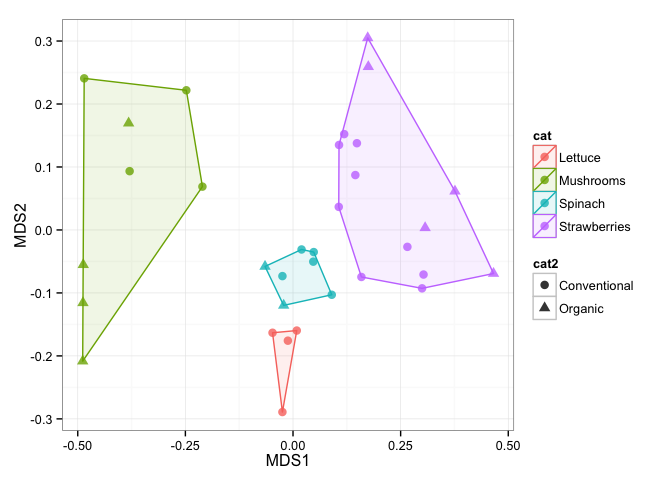
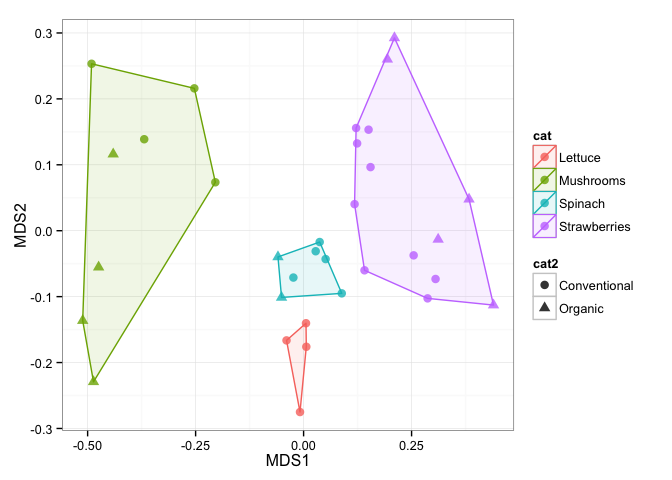
updates

diff --git a/mctoolsr_examples.md b/mctoolsr_examples.md
@@ -25,9 +25,8 @@ source('~/Software/mctoolsr/R/routine_analysis_functions.R')
 
 ### Examples
 
-Note that the following examples use an example dataset taken from a study examining the bacterial communities associated with fruits and vegetables ([Leff et al. 2013][ref1]). You can find this dataset in the mctoolsr/examples directory.
+Note that the following examples use an example dataset taken from a study examining the bacterial communities associated with fruits and vegetables ([Leff et al. 2013][ref1]). You can find this dataset in the mctoolsr/examples directory.    
 
-\  
 
 #### Loading OTU tables and metadata
 
@@ -56,9 +55,8 @@ The loaded data will consist of three parts:
 2. The metadata: "map_loaded"
 3. The taxonomic classifiers (if provided in the biom file): "taxonomy_loaded"
 
-Any of these components can be quickly accessed using the '$' sign notation as shown in the next example.
+Any of these components can be quickly accessed using the '$' sign notation as shown in the next example.  
 
-\  
 
 #### Returning numbers of sequences per sample
 
@@ -80,7 +78,6 @@ sort(colSums(input$data_loaded))
 ##   2982   3291   3390
 ```
 
-\  
 
 #### Rarefying
 
@@ -113,7 +110,6 @@ colSums(input_rar$data_loaded)
 ##   1000   1000   1000
 ```
 
-\  
 
 #### Summarize taxonomic relative abundances at a higher taxonomic level
 
@@ -128,13 +124,12 @@ tax_sum_phyla[1:5, 1:8]
 ```
 ##                    ProA12 ProA13 ProA14 ProA15 ProA16 ProA33 ProA34 ProA35
 ## p__                 0.001  0.000  0.000  0.000  0.000  0.000  0.000  0.000
-## p__[Thermi]         0.001  0.000  0.000  0.000  0.000  0.000  0.004  0.000
+## p__[Thermi]         0.001  0.000  0.000  0.000  0.000  0.000  0.008  0.000
 ## p__Acidobacteria    0.002  0.000  0.000  0.000  0.000  0.000  0.000  0.000
-## p__Actinobacteria   0.398  0.007  0.002  0.021  0.004  0.038  0.059  0.091
-## p__Armatimonadetes  0.000  0.001  0.000  0.007  0.000  0.000  0.000  0.000
+## p__Actinobacteria   0.377  0.007  0.004  0.016  0.003  0.048  0.069  0.103
+## p__Armatimonadetes  0.000  0.001  0.000  0.003  0.000  0.000  0.000  0.000
 ```
 
-\  
 
 #### Calculating a dissimilarity matrix
 
@@ -145,7 +140,6 @@ For dissimilarity-based analyses such as ordinations and PERMANOVA, it is necess
 dm = calc_dm(input_rar$data_loaded)
 ```
 
-\  
 
 #### Plotting an ordination
 
@@ -157,12 +151,10 @@ ord = calc_ordination(dm, 'nmds')
 ```
 
 ```
-## Run 0 stress 0.1151454 
-## Run 1 stress 0.1425444 
-## Run 2 stress 0.1154912 
-## ... procrustes: rmse 0.008024762  max resid 0.03246644 
-## Run 3 stress 0.1151454 
-## ... procrustes: rmse 9.012989e-05  max resid 0.0003971872 
+## Run 0 stress 0.1157552 
+## Run 1 stress 0.1397714 
+## Run 2 stress 0.1157552 
+## ... procrustes: rmse 2.266429e-05  max resid 9.581146e-05 
 ## *** Solution reached
 ```
 
@@ -191,7 +183,6 @@ plot_ordination(input_rar, ord, 'Sample_type', 'Farm_type', hulls = TRUE)
 
 ![](mctoolsr_examples_files/figure-html/unnamed-chunk-7-1.png) 
 
-\  
 
 #### Filtering samples
 
@@ -205,15 +196,9 @@ ord = calc_ordination(dm, 'nmds')
 ```
 
 ```
-## Run 0 stress 0.1069233 
-## Run 1 stress 0.1047708 
-## ... New best solution
-## ... procrustes: rmse 0.0204799  max resid 0.09070889 
-## Run 2 stress 0.1069275 
-## Run 3 stress 0.1069231 
-## Run 4 stress 0.1047707 
-## ... New best solution
-## ... procrustes: rmse 0.0008033948  max resid 0.003356496 
+## Run 0 stress 0.1093698 
+## Run 1 stress 0.1093712 
+## ... procrustes: rmse 0.001575638  max resid 0.006331 
 ## *** Solution reached
 ```
 
@@ -223,7 +208,6 @@ plot_ordination(input_rar_filt, ord, 'Sample_type', 'Farm_type', hulls = TRUE)
 
 ![](mctoolsr_examples_files/figure-html/unnamed-chunk-8-1.png) 
 
-\  
 
 #### Filtering taxa
 
@@ -253,31 +237,27 @@ plot_nmds(calc_dm(input_proteobact_rar$data_loaded), map = input_proteobact_rar$
 ```
 
 ```
-## Run 0 stress 0.1373287 
-## Run 1 stress 0.1275725 
+## Run 0 stress 0.1302543 
+## Run 1 stress 0.1344851 
+## Run 2 stress 0.109127 
 ## ... New best solution
-## ... procrustes: rmse 0.09883078  max resid 0.2550105 
-## Run 2 stress 0.1414607 
-## Run 3 stress 0.1365959 
-## Run 4 stress 0.1267606 
+## ... procrustes: rmse 0.1122212  max resid 0.2948393 
+## Run 3 stress 0.1328634 
+## Run 4 stress 0.1086697 
 ## ... New best solution
-## ... procrustes: rmse 0.02310748  max resid 0.1036252 
-## Run 5 stress 0.1268468 
-## ... procrustes: rmse 0.02507583  max resid 0.1041371 
-## Run 6 stress 0.1258828 
-## ... New best solution
-## ... procrustes: rmse 0.01116423  max resid 0.04913036 
-## Run 7 stress 0.1267614 
-## Run 8 stress 0.136596 
-## Run 9 stress 0.1258813 
-## ... New best solution
-## ... procrustes: rmse 0.0004265383  max resid 0.001044944 
+## ... procrustes: rmse 0.007203325  max resid 0.02954427 
+## Run 5 stress 0.1391442 
+## Run 6 stress 0.1091276 
+## ... procrustes: rmse 0.007213756  max resid 0.02977796 
+## Run 7 stress 0.1305058 
+## Run 8 stress 0.1302541 
+## Run 9 stress 0.1086697 
+## ... procrustes: rmse 3.478205e-05  max resid 9.693163e-05 
 ## *** Solution reached
 ```
 
 ![](mctoolsr_examples_files/figure-html/unnamed-chunk-9-1.png) 
 
-\  
 
 #### Taxa based exploration
 
@@ -292,26 +272,25 @@ taxa_summary_by_sample_type(tax_sum_families, input_rar_filt$map_loaded,
 
 ```
 ##                               pvals     pvalsBon     pvalsFDR Mushrooms
-## f__Pseudomonadaceae    1.163406e-05 8.143843e-05 8.143843e-05  0.147875
-## f__Sphingobacteriaceae 1.130233e-04 7.911633e-04 3.955816e-04  0.282125
-## f__[Weeksellaceae]     1.827174e-04 1.279022e-03 4.263407e-04  0.107625
-## f__Enterobacteriaceae  5.734819e-04 4.014373e-03 1.003593e-03  0.031625
-## unclassified           1.307118e-03 9.149823e-03 1.829965e-03  0.078875
-## f__Bacillaceae         1.619761e-02 1.133833e-01 1.889722e-02  0.003000
-## f__Sphingomonadaceae   2.497295e-02 1.748107e-01 2.497295e-02  0.007875
+## f__Pseudomonadaceae    1.224686e-05 8.572802e-05 8.572802e-05  0.144625
+## f__Sphingobacteriaceae 6.831236e-05 4.781865e-04 2.390933e-04  0.288750
+## f__[Weeksellaceae]     1.714299e-04 1.200009e-03 4.000031e-04  0.103875
+## f__Enterobacteriaceae  5.816565e-04 4.071595e-03 1.017899e-03  0.035000
+## unclassified           2.400527e-03 1.680369e-02 3.360737e-03  0.071625
+## f__Bacillaceae         8.738906e-03 6.117234e-02 1.019539e-02  0.002875
+## f__Sphingomonadaceae   1.181728e-02 8.272098e-02 1.181728e-02  0.007750
 ##                             Spinach Strawberries
-## f__Pseudomonadaceae    0.0642857143 0.0015714286
-## f__Sphingobacteriaceae 0.0028571429 0.0008571429
-## f__[Weeksellaceae]     0.0022857143 0.0015000000
-## f__Enterobacteriaceae  0.7311428571 0.5735714286
-## unclassified           0.0295714286 0.0223571429
-## f__Bacillaceae         0.0058571429 0.2035714286
-## f__Sphingomonadaceae   0.0007142857 0.0622142857
+## f__Pseudomonadaceae    0.0652857143  0.001000000
+## f__Sphingobacteriaceae 0.0032857143  0.001000000
+## f__[Weeksellaceae]     0.0021428571  0.001357143
+## f__Enterobacteriaceae  0.7305714286  0.572714286
+## unclassified           0.0284285714  0.022285714
+## f__Bacillaceae         0.0055714286  0.202357143
+## f__Sphingomonadaceae   0.0004285714  0.059642857
 ```
 
-This analysis demonstrates that Pseudomonadaceae and Sphingobacteriaceae tend to have higher relative abundances on mushrooms than spinach and strawberries. The p values are based on Kruskal-Wallis tests and two different corrections are reported to deal with the multiple comparisons (Bonferroni and FDR). Rare taxa are filtered out using the `filter_level` peramter. The values indicated under the sample types are mean relative abundances.
+This analysis demonstrates that Pseudomonadaceae and Sphingobacteriaceae tend to have higher relative abundances on mushrooms than spinach and strawberries. The p values are based on Kruskal-Wallis tests and two different corrections are reported to deal with the multiple comparisons (Bonferroni and FDR). Rare taxa are filtered out using the `filter_level` peramter. The values indicated under the sample types are mean relative abundances.    
 
-\  
 
 #### Calculating mean dissimilarities
 
@@ -328,39 +307,40 @@ ord = calc_ordination(dm_aggregated$dm, ord_type = 'nmds')
 ```
 ## Run 0 stress 0 
 ## Run 1 stress 0 
-## ... procrustes: rmse 0.2488347  max resid 0.396631 
-## Run 2 stress 9.173943e-05 
-## ... procrustes: rmse 0.2657715  max resid 0.3700462 
-## Run 3 stress 8.576614e-05 
-## ... procrustes: rmse 0.1993913  max resid 0.3245076 
+## ... procrustes: rmse 0.2378439  max resid 0.4156083 
+## Run 2 stress 9.45397e-05 
+## ... procrustes: rmse 0.03501515  max resid 0.05695216 
+## Run 3 stress 0 
+## ... procrustes: rmse 0.02485739  max resid 0.03732512 
 ## Run 4 stress 0 
-## ... procrustes: rmse 0.01138017  max resid 0.01966962 
+## ... procrustes: rmse 0.2397933  max resid 0.3673765 
 ## Run 5 stress 0 
-## ... procrustes: rmse 0.1938221  max resid 0.3026257 
-## Run 6 stress 8.965802e-05 
-## ... procrustes: rmse 0.02758341  max resid 0.04607514 
-## Run 7 stress 6.568162e-05 
-## ... procrustes: rmse 0.1674049  max resid 0.2962953 
+## ... procrustes: rmse 0.2540933  max resid 0.4376614 
+## Run 6 stress 0.2465763 
+## Run 7 stress 8.317244e-05 
+## ... procrustes: rmse 0.2388794  max resid 0.4191379 
 ## Run 8 stress 0 
-## ... procrustes: rmse 0.04899055  max resid 0.10312 
-## Run 9 stress 0.1842129 
-## Run 10 stress 0.1842127 
-## Run 11 stress 0.1620205 
-## Run 12 stress 0.1842127 
-## Run 13 stress 0 
-## ... procrustes: rmse 0.1971929  max resid 0.2492159 
-## Run 14 stress 0.1842126 
-## Run 15 stress 3.305645e-05 
-## ... procrustes: rmse 0.01787241  max resid 0.02672975 
-## Run 16 stress 0.1842127 
-## Run 17 stress 9.704918e-05 
-## ... procrustes: rmse 0.1601945  max resid 0.2719301 
-## Run 18 stress 0 
-## ... procrustes: rmse 0.239597  max resid 0.3899085 
-## Run 19 stress 0 
-## ... procrustes: rmse 0.1914511  max resid 0.3012921 
-## Run 20 stress 0 
-## ... procrustes: rmse 0.2120316  max resid 0.3729741
+## ... procrustes: rmse 0.1146179  max resid 0.1377256 
+## Run 9 stress 4.908487e-06 
+## ... procrustes: rmse 0.2361014  max resid 0.4180284 
+## Run 10 stress 0 
+## ... procrustes: rmse 0.038304  max resid 0.07344414 
+## Run 11 stress 0 
+## ... procrustes: rmse 0.1445876  max resid 0.2522866 
+## Run 12 stress 0 
+## ... procrustes: rmse 0.04896569  max resid 0.08552502 
+## Run 13 stress 0.1842127 
+## Run 14 stress 9.412529e-05 
+## ... procrustes: rmse 0.1651268  max resid 0.3301675 
+## Run 15 stress 0 
+## ... procrustes: rmse 0.2431511  max resid 0.3972836 
+## Run 16 stress 0.1620205 
+## Run 17 stress 0.1842126 
+## Run 18 stress 1.001635e-05 
+## ... procrustes: rmse 0.2305798  max resid 0.376923 
+## Run 19 stress 0.1620205 
+## Run 20 stress 7.221803e-05 
+## ... procrustes: rmse 0.1963282  max resid 0.332287
 ```
 
 ```
